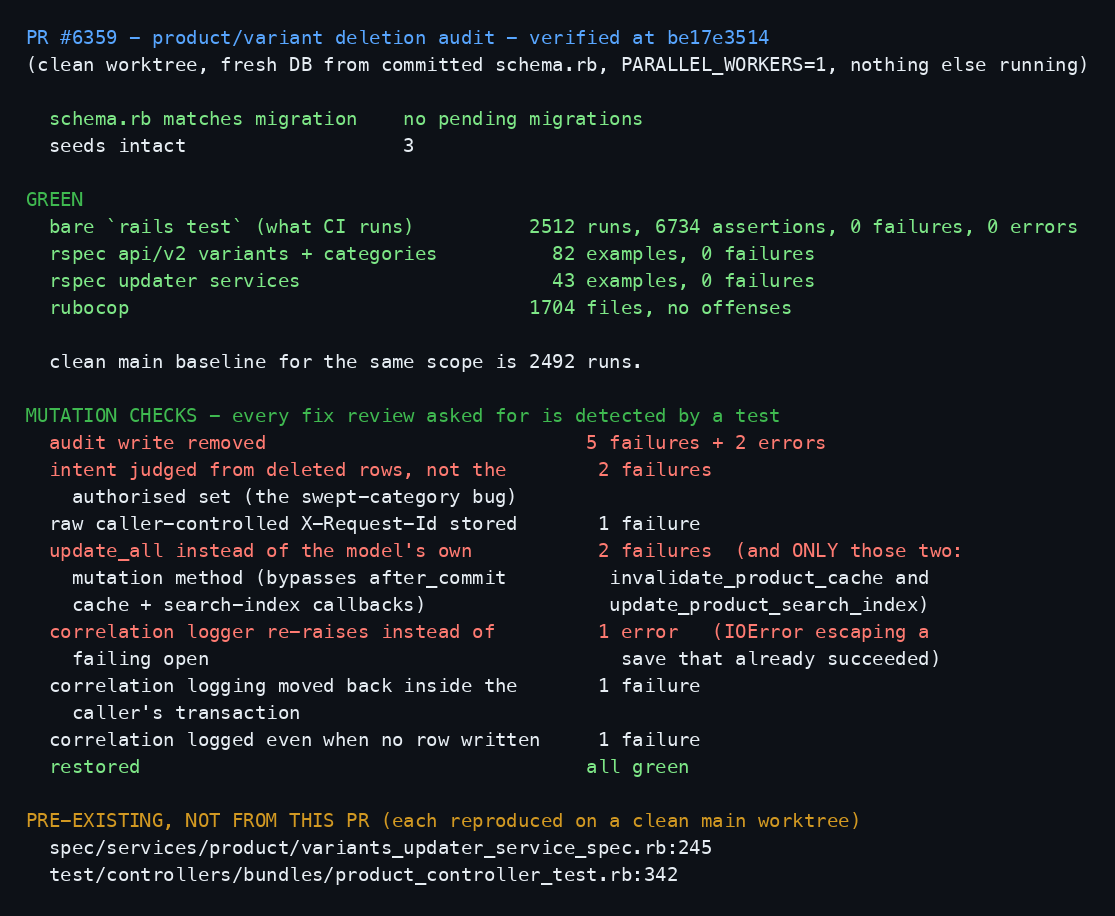
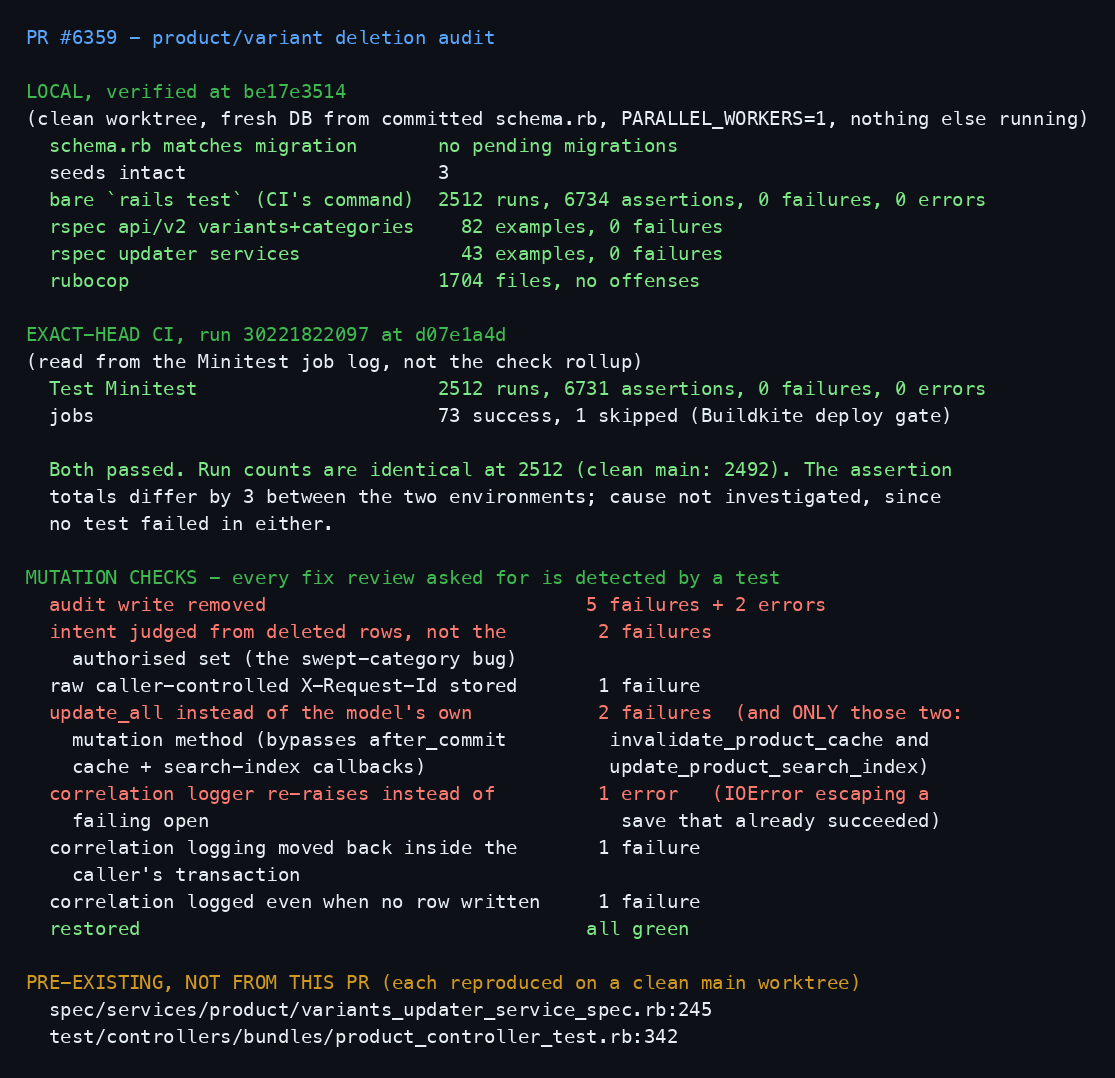
Correct the correlation-logging comments and the evidence figures
The comments still described logging as running inside the deletion's
transaction, which was true of the original buggy placement but not of the code:
logging now runs in after_commit, after the audit row is written.

Explain both risk models, because they are not the same. The old placement could
propagate out of with_lock and roll the deletion back, so a full disk became a
delete that silently did not happen. The current placement cannot undo anything --
an unhandled error there would instead turn a fully successful operation into a
500. Both are unacceptable, which is why the rescue stays, but the reason changed.

Updated in audit_correlation_id.rb and the three logger regressions.

Evidence corrected to report both runs distinctly rather than conflating them:
local verification at be17e3514 had 6,734 assertions; exact-head CI at d07e1a4d
had 6,731. Both passed, with identical run counts of 2512.

Comments and evidence only -- no code change (verified: the diff contains no
non-comment lines).

diff --git a/app/services/audit_correlation_id.rb b/app/services/audit_correlation_id.rb
@@ -46,11 +46,20 @@ class AuditCorrelationId
   # back to the request that produced it. A digest that appears nowhere but the
   # database cannot correlate anything, which is the whole point of storing it.
   #
-  # Fails open, and that is load-bearing rather than defensive habit. This is
-  # called from inside the deletion's transaction, so an exception here would
-  # propagate out of `with_lock`, roll the deletion back, and turn a logging
-  # failure into a failed delete and a 500 for the seller. A broken log device, a
-  # full disk, or a misconfigured logger must cost observability only.
+  # Fails open, and that is load-bearing rather than defensive habit — though the
+  # consequence of a raise has changed, so it is worth being precise about what
+  # this rescue now protects against.
+  #
+  # It used to be called from inside the deletion's transaction. An exception then
+  # propagated out of `with_lock` and rolled the deletion back, so a full disk
+  # turned into a delete that silently did not happen. That was the original bug.
+  #
+  # It is now called from inside `after_commit`, after the audit row is written, so
+  # the deletion is already committed and can no longer be undone by anything here.
+  # An unhandled error would instead surface on a request whose work had entirely
+  # succeeded — a 500 on a completed deletion, which is a worse lie than a missing
+  # log line. Either way a broken log device, a full disk, or a misconfigured
+  # logger must cost observability only.
   #
   # Returns true when the pair was logged, false when it was not, so callers can
   # assert on it without parsing log output.

diff --git a/test/controllers/links_controller_test.rb b/test/controllers/links_controller_test.rb
@@ -5830,10 +5830,14 @@ class LinksControllerDeletionAuditTest < ActionController::TestCase
     assert_not variant.reload.alive?
   end
 
-  # Correlation logging happens INSIDE the deletion's transaction, so a raising
-  # logger would propagate out, roll the deletion back, and turn a logging failure
-  # into a failed save. Proven empirically before the fix: the deletion was rolled
-  # back and the request would have 500'd.
+  # Correlation logging used to run INSIDE the deletion's transaction, where a
+  # raising logger propagated out, rolled the deletion back, and turned a full disk
+  # into a save that silently did not delete. Proven empirically before the fix.
+  #
+  # It now runs in `after_commit`, after the row is written, so a raise can no
+  # longer undo the deletion — it would instead 500 a request whose work had fully
+  # succeeded. This asserts the weaker-but-still-required property that survives
+  # the move: a broken logger costs the log line and nothing else.
   test "a broken correlation logger cannot stop an editor save" do
     variant = create_variant(variant_category: @category, name: "Plain version")
 

diff --git a/spec/controllers/api/v2/variants_controller_spec.rb b/spec/controllers/api/v2/variants_controller_spec.rb
@@ -615,9 +615,11 @@ describe Api::V2::VariantsController do
           # on the instance, since the controller loads its own via the
           # variant_category association.
 
-          # Correlation logging runs inside the deletion's transaction, so a raising
-          # logger would propagate out of with_lock, roll the deletion back, and
-          # return a 500 for a delete that should have succeeded.
+          # Correlation logging used to run inside the deletion's transaction,
+          # where a raising logger propagated out of with_lock and rolled the
+          # deletion back. It now runs in after_commit, after the row is written,
+          # so a raise could only 500 a delete that had already succeeded. Either
+          # way it must cost the log line and nothing more.
           it "is not broken by a failing correlation logger" do
             allow(AuditCorrelationId).to receive(:log_pair).and_raise(IOError, "log device full")
 

diff --git a/spec/controllers/api/v2/variant_categories_controller_spec.rb b/spec/controllers/api/v2/variant_categories_controller_spec.rb
@@ -252,9 +252,11 @@ describe Api::V2::VariantCategoriesController do
         # `after_commit :invalidate_product_cache` and would have left stale
         # product caches.
 
-        # Correlation logging runs inside the deletion's transaction, so a raising
-        # logger would propagate out of with_lock, roll the deletion back, and
-        # return a 500 for a delete that should have succeeded.
+        # Correlation logging used to run inside the deletion's transaction,
+        # where a raising logger propagated out of with_lock and rolled the
+        # deletion back. It now runs in after_commit, after the row is written,
+        # so a raise could only 500 a delete that had already succeeded. Either
+        # way it must cost the log line and nothing more.
         it "is not broken by a failing correlation logger" do
           allow(AuditCorrelationId).to receive(:log_pair).and_raise(IOError, "log device full")
 
